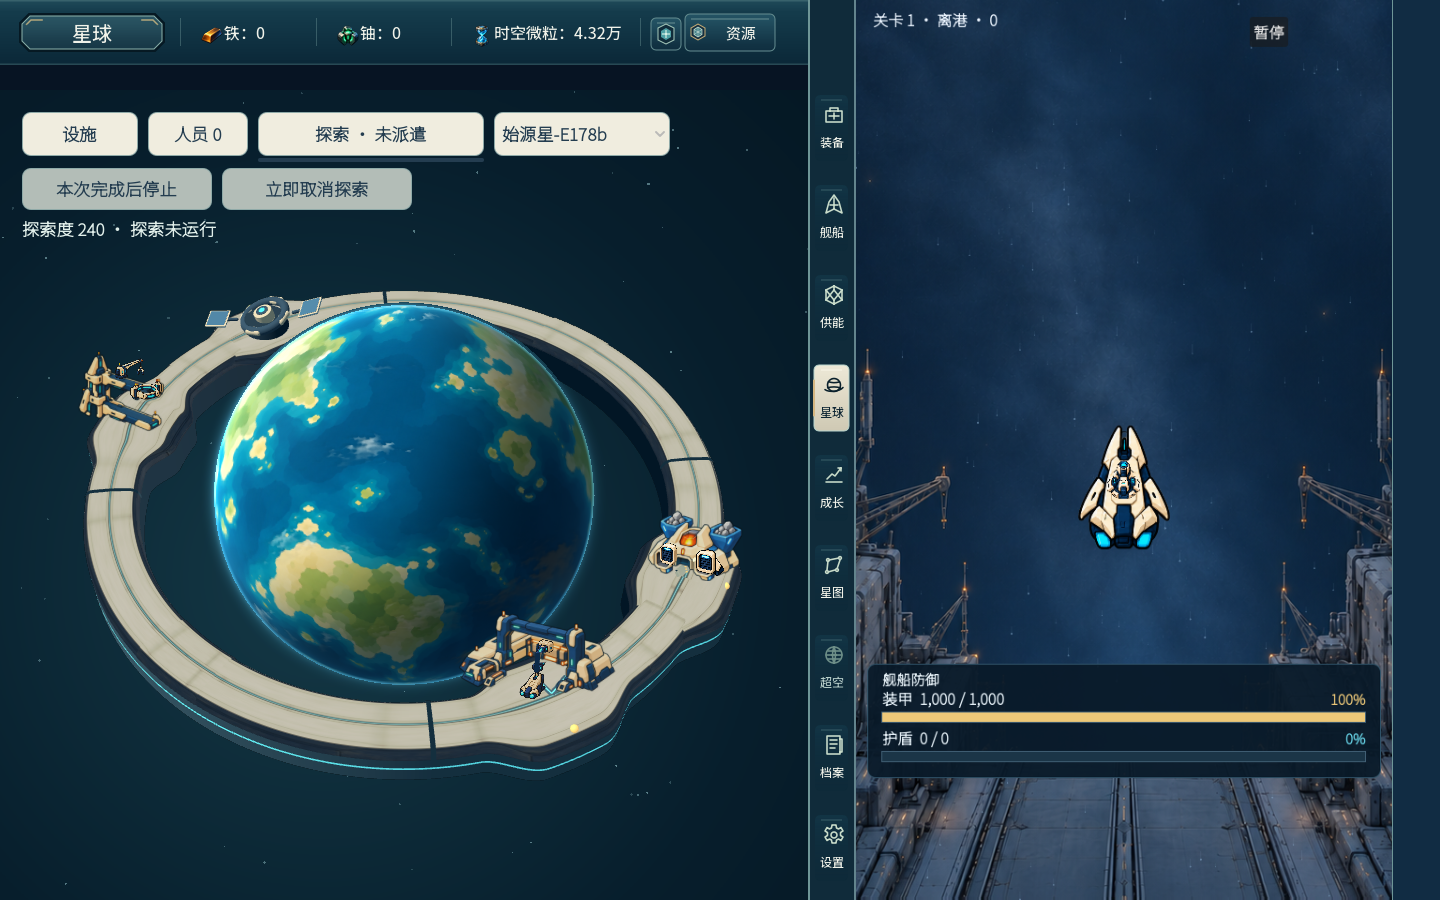
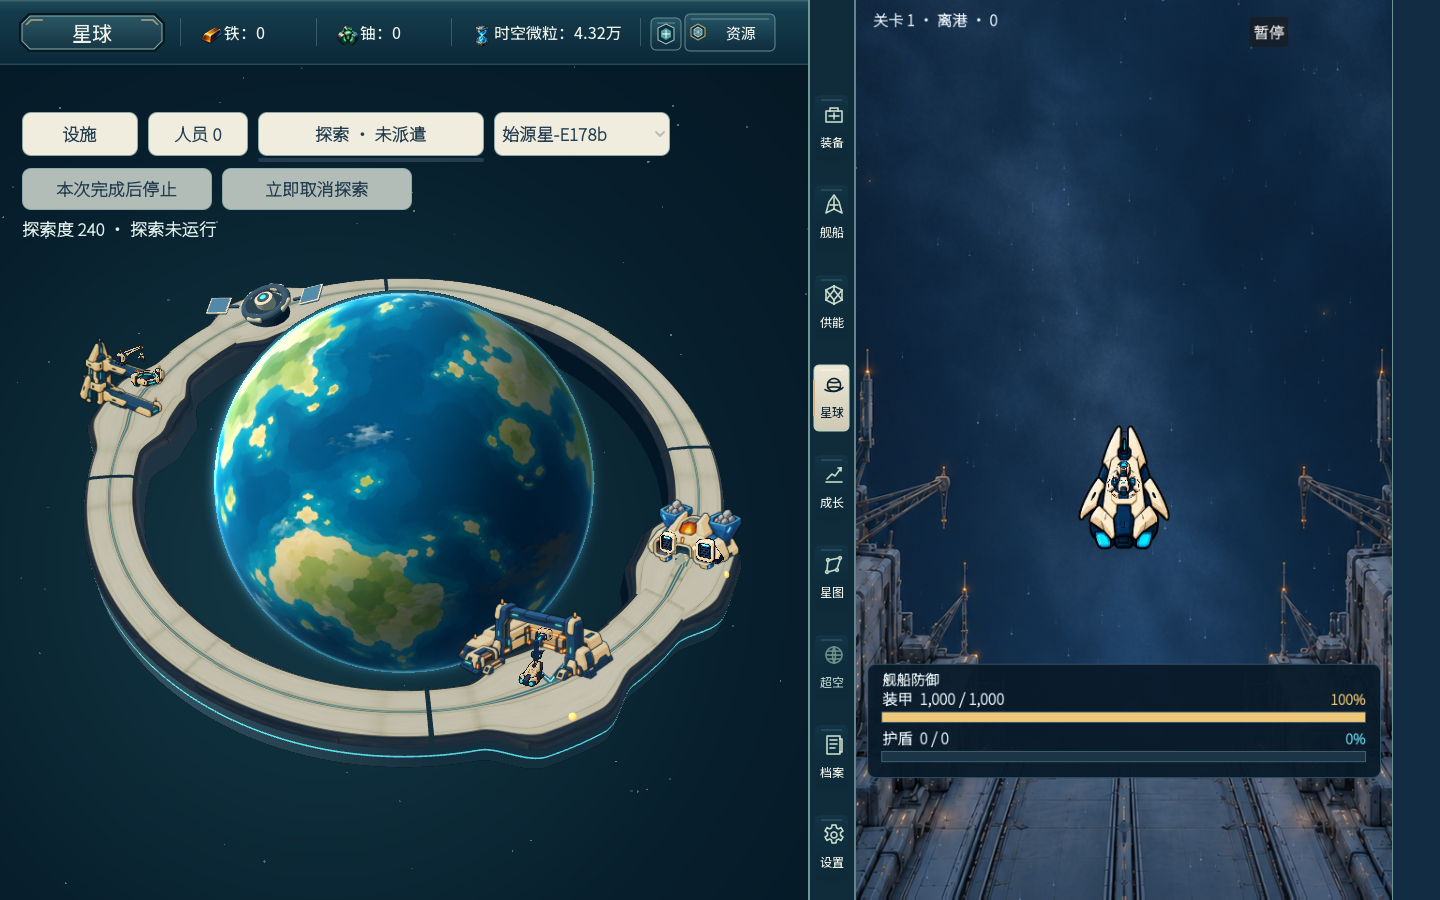
Join hosted planet sky to public top rail

Changed region(s): [[0.0312, 0.3111, 0.5312, 0.8711]]

diff --git a/space-battleship/docs/ui-redesign-plan/shared-host-shell/runtime-clear-zone/README.md b/space-battleship/docs/ui-redesign-plan/shared-host-shell/runtime-clear-zone/README.md
@@ -136,3 +136,11 @@ Godot 4.7.2 正常 `main.tscn` **同一实例** `1440×900`：[装备无钱](evi
 宿主仅在 `main.gd` 装入独立 `808×900` 星球场景、加公共“星球”导航图标/路由并将九个导航键的纵向间距设为 `90px`。星球页通过原组 `set_shared_host(true, null)` 隐藏自带余额栏，沿用公共顶部资源/标题/退出及 `ResourceVisuals` 五资源身份；视觉上下文补现有 `Economy.balance_rows()`，不改价格或玩法。导航只在 Campaign 星球功能开放时可用；装备、反应堆、星球、星图互斥显隐。星球内部排他弹窗阻止公共切页/战斗输入，离开时 `prepare_host_hide()` 清除页内焦点；重铸请求转到保留的星图原交易界面。原战斗投影仍为 `x=855.875` 起、`536.25×900`、scale `0.9375`，右侧余量未被占用。
 
 Godot 4.7.2 正常 `main.tscn` 的[第一固态四设施完整态整屏](evidence/planet-r17-shared-stage4-1440x900.png)、[切回装备整屏](evidence/planet-r17-shared-equipment-return-1440x900.png)、[切回星图整屏](evidence/planet-r17-shared-universe-return-1440x900.png)，均为本组合 `1440×900` 原图。[固定接入驱动](evidence/planet-r17-shared-driver.gd.txt)经既有 Campaign/Planet 恢复端口临时开放第一星球并设四设施 built；[运行摘要](evidence/planet-r17-shared-runtime.txt)记录星球尺寸、导航/场景互斥、自带钱包隐藏和焦点清理。已按 13 第 6 节原尺寸查看三张整屏：本版公共顶栏、导航、星球内区、装备返回、星图返回及右侧原战斗主体未见增量遮挡；仍交原整体审重新判断。此夹具图不代表自然解锁、逐步建设、星球内部完整操作、连续整圈或其他天体；本组合未采动态，不借用原组动态作共享组合证据，也不合 main。
+
+### R17 接续窄修与星球内控件交接（整体审退回后）
+
+原整体审退回 `6de07599`：第一固态星球主体成立，但星球操作键仍为象牙／灰绿平填，与公共顶轨和装备控件的材质、字级及状态完成度不一致；公共栏下 `y≈65…90` 有深色空带。**这不是旧顶栏叠层**：公共 `ZoneShell._draw()` 对非装备页绘制的顶轨止于 `y=65`，R17 `PlanetPanel._layout()` 的既有星空视觉始于 `y=90`，中间露出根背景。宿主只在 `set_shared_host(true, null)` 模式把原视觉起点移到 `65` 并延伸到 `900`，独立模式仍保留原 `90` 顶部；没有加遮罩、第二块底板或改公共顶轨。环、球、设施及右侧战斗主体仍由原绘制源呈现。
+
+[窄修后的第一固态四设施完整态 1440×900 实图](evidence/planet-r17-shared-stage4-1440x900.png)已在正常主场景原尺寸重看：顶部星空直接接公共轨，原 `65…90` 平直色带消失；主体和左侧导航未见新的裁切。装备／星图返回整屏与上一提交相同，固定驱动又核了两次路由互斥与离页焦点；[本版运行摘要](evidence/planet-r17-shared-runtime.txt)只对应本版静图和路由，不把旧版图冒充新状态动态。本轮显式指定 Godot `--audio-driver Dummy`，因为先前自动选择 ALSA 时 `/dev/snd` 不存在，`AudioDriverALSA::init_output_device` 返回 `ERR_CANT_OPEN` 后引擎回退 Dummy；对象是宿主机音频输出设备，非星球贴图、GLB 或脚本，旧版截图及逻辑仍运行完成。本次日志无 `ERROR`／`SCRIPT ERROR`，仅图形驱动不支持 VSync 的告警；并未声称实际音频播放通过。
+
+星球**内区仍待原组修订**，宿主不以公共 Theme 强盖：`PlanetPanel._theme()` 当前给 `Button`／`OptionButton` 的普通、悬浮、按下、焦点和禁用态同一 `f0eddf`／`d2e6df`／`b3bdb7` 平面与 `243d50` 字色，`_action()` 的停止／取消等键、三枚设施／人员／探索页签、星球选择器、详情抽屉及其关闭键均属星球组。请按唯一 [13 第 2.3／6 节](../../../game-design/13-art-interaction.md)与 [14 UI 契约](../../../game-design/14-ui-contracts.md)，在原组自己的内区用装备／反应堆已用的冷深蓝辅助、暖金主操作、字底对比和可辨状态家族做实际场景适配；核普通、悬浮、按下、选中、禁用、焦点以及长名称、报价和失败提示的净空，替换旧平填实际绘制源，不额外套框。星球的空间场景与设施动作保持原组所有权，不要求画成机库。公共顶栏、资源身份、导航和左／右区界归整体组；星球内建设、人员、费用、详情和状态样式归星球组。此交接只界定待做差异，**不宣称星球控件已统一或本次整体审通过**。
